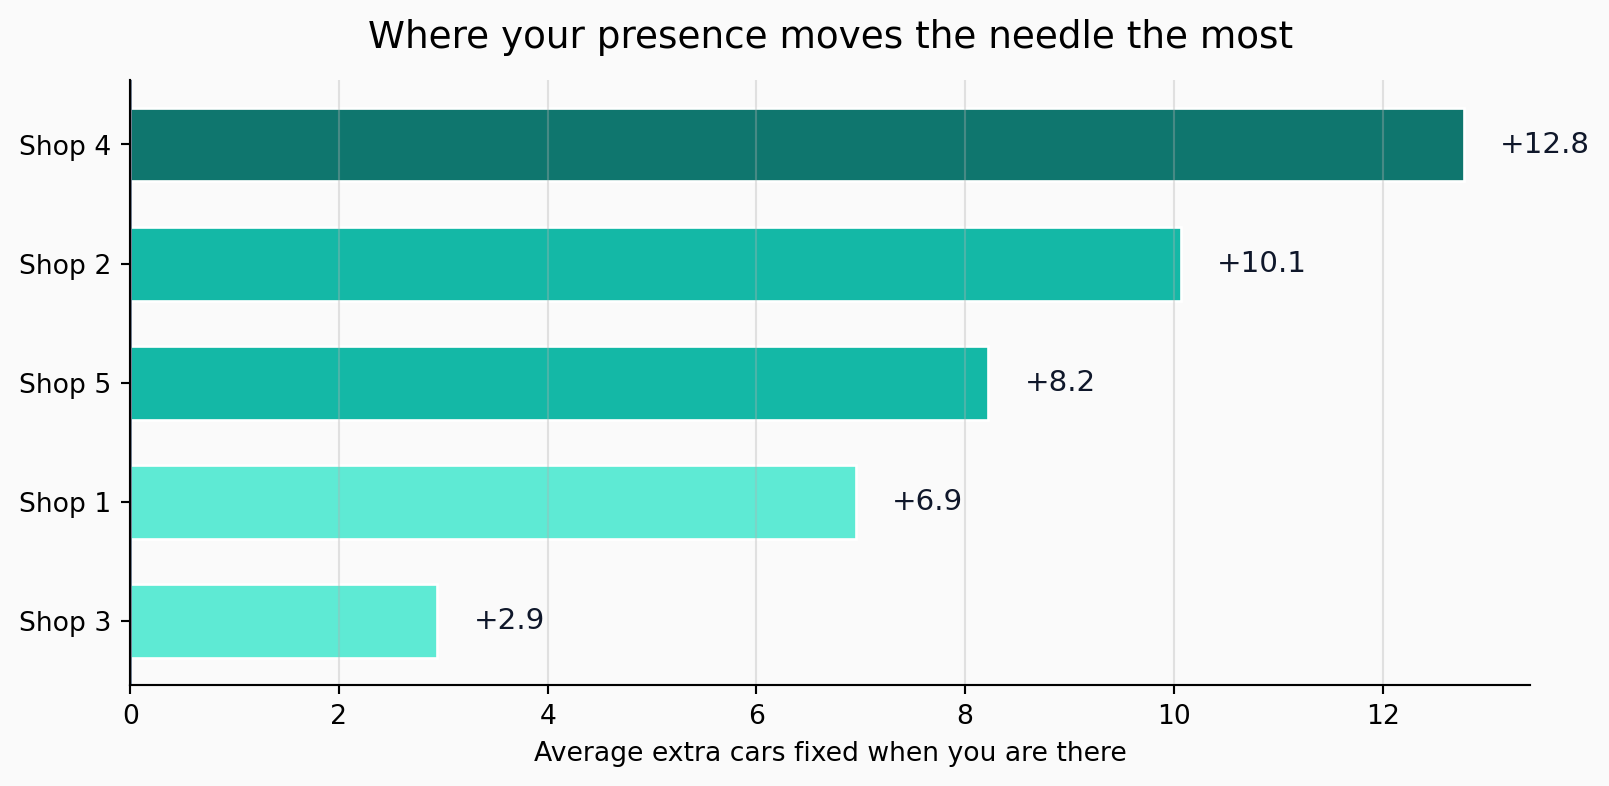
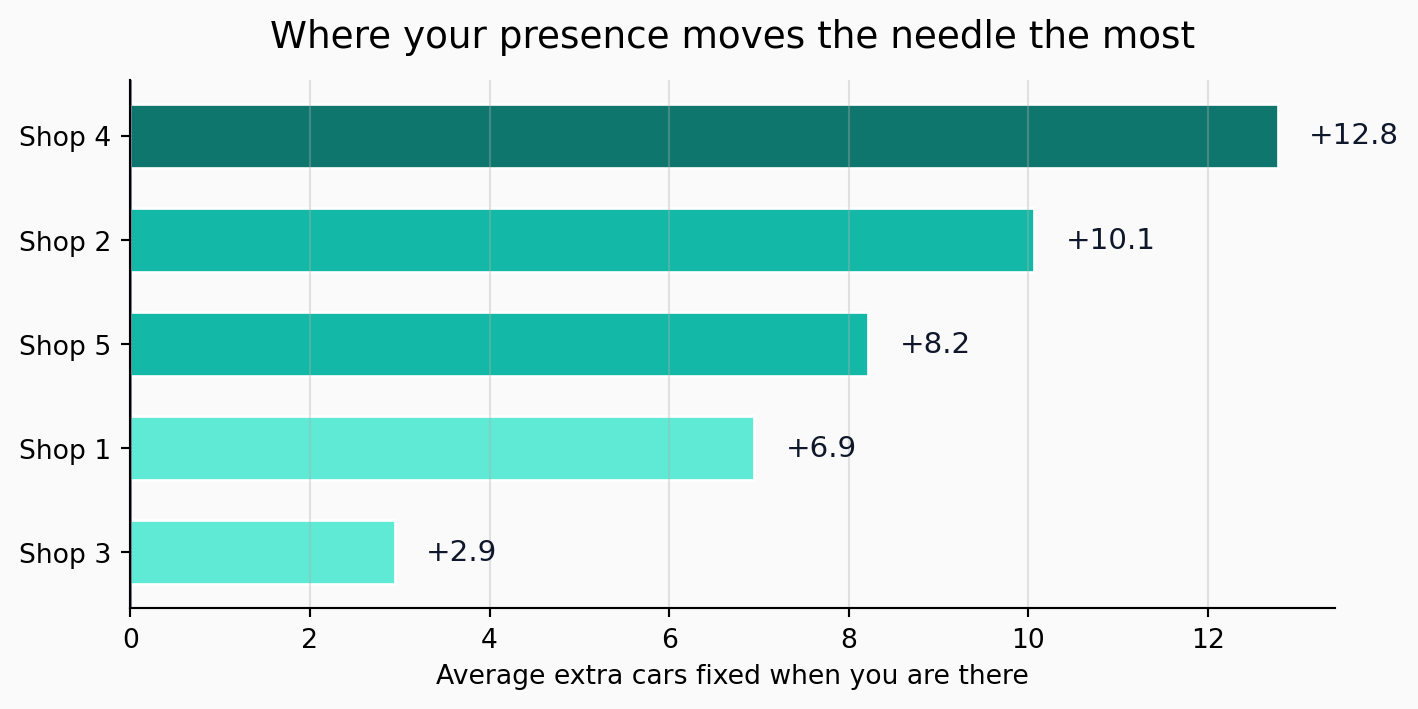
Fix img

diff --git a/index.html b/index.html
@@ -35,6 +35,9 @@ ul.task-list li input[type="checkbox"] {
 <script src="index_files/libs/bootstrap/bootstrap.min.js"></script>
 <link href="index_files/libs/bootstrap/bootstrap-icons.css" rel="stylesheet">
 <link href="index_files/libs/bootstrap/bootstrap-9e3ffae467580fdb927a41352e75a2e0.min.css" rel="stylesheet" append-hash="true" id="quarto-bootstrap" data-mode="light">
+<style>
+.quarto-float-fig img.figure-img { max-width: 92%; height: auto; }
+</style>
 
 
 </head>
@@ -89,12 +92,12 @@ ul.task-list li input[type="checkbox"] {
 <li><strong>Shop 1:</strong> about <strong>+7.0</strong> cars/day</li>
 <li><strong>Shop 3:</strong> about <strong>+2.9</strong> cars/day</li>
 </ul>
-<div id="cell-fig-all-250-days" class="cell" data-fig-height="5.2" data-fig-width="9" data-execution_count="1">
+<div id="cell-fig-all-250-days" class="cell" data-fig-height="4.6" data-fig-width="8" data-execution_count="1">
 <div class="cell-output cell-output-display">
 <div id="fig-all-250-days" class="quarto-float quarto-figure quarto-figure-center anchored">
 <figure class="quarto-float quarto-float-fig figure">
 <div aria-describedby="fig-all-250-days-caption-0ceaefa1-69ba-4598-a22c-09a6ac19f8ca">
-<img src="index_files/figure-html/fig-all-250-days-output-1.png" width="854" height="489" class="figure-img">
+<img src="index_files/figure-html/fig-all-250-days-output-1.png" width="758" height="431" class="figure-img">
 </div>
 <figcaption class="quarto-float-caption-bottom quarto-float-caption quarto-float-fig" id="fig-all-250-days-caption-0ceaefa1-69ba-4598-a22c-09a6ac19f8ca">
 Figure&nbsp;1: Each dot is one shop-day from your log. Teal = you were at that shop; gray = you were not. Jitter spreads overlapping dots so you can see them all.
@@ -103,12 +106,12 @@ Figure&nbsp;1: Each dot is one shop-day from your log. Teal = you were at that s
 </div>
 </div>
 </div>
-<div id="cell-fig-lift-by-shop" class="cell" data-fig-height="4.2" data-fig-width="8.5" data-execution_count="2">
+<div id="cell-fig-lift-by-shop" class="cell" data-fig-height="3.8" data-fig-width="7.5" data-execution_count="2">
 <div class="cell-output cell-output-display">
 <div id="fig-lift-by-shop" class="quarto-float quarto-figure quarto-figure-center anchored">
 <figure class="quarto-float quarto-float-fig figure">
 <div aria-describedby="fig-lift-by-shop-caption-0ceaefa1-69ba-4598-a22c-09a6ac19f8ca">
-<img src="index_files/figure-html/fig-lift-by-shop-output-1.png" width="805" height="393" class="figure-img">
+<img src="index_files/figure-html/fig-lift-by-shop-output-1.png" width="709" height="355" class="figure-img">
 </div>
 <figcaption class="quarto-float-caption-bottom quarto-float-caption quarto-float-fig" id="fig-lift-by-shop-caption-0ceaefa1-69ba-4598-a22c-09a6ac19f8ca">
 Figure&nbsp;2: How many more cars per day, on average, when you are at that shop versus when you are not. Taller bars mean your time pays off more at that location.
@@ -152,12 +155,12 @@ Figure&nbsp;2: How many more cars per day, on average, when you are at that shop
 <li>Concentrating more days at <strong>Shops 2 and 4</strong> produces the highest projected extra cars</li>
 <li>Putting many days at <strong>Shop 3</strong> lowers projected total output</li>
 </ul>
-<div id="cell-fig-scenario-projection" class="cell" data-fig-height="4.8" data-fig-width="9" data-execution_count="3">
+<div id="cell-fig-scenario-projection" class="cell" data-fig-height="4.3" data-fig-width="8" data-execution_count="3">
 <div class="cell-output cell-output-display">
 <div id="fig-scenario-projection" class="quarto-float quarto-figure quarto-figure-center anchored">
 <figure class="quarto-float quarto-float-fig figure">
 <div aria-describedby="fig-scenario-projection-caption-0ceaefa1-69ba-4598-a22c-09a6ac19f8ca">
-<img src="index_files/figure-html/fig-scenario-projection-output-1.png" width="853" height="451" class="figure-img">
+<img src="index_files/figure-html/fig-scenario-projection-output-1.png" width="757" height="403" class="figure-img">
 </div>
 <figcaption class="quarto-float-caption-bottom quarto-float-caption quarto-float-fig" id="fig-scenario-projection-caption-0ceaefa1-69ba-4598-a22c-09a6ac19f8ca">
 Figure&nbsp;3: Illustrative projection: same 50 boss-days as in your log, split across shops in four ways. Bars show total expected extra cars (sum of days at each shop x that shop’s average lift). Heavier time at Shops 2 and 4 pulls the total up; parking half of those days at Shop 3 drags it down.